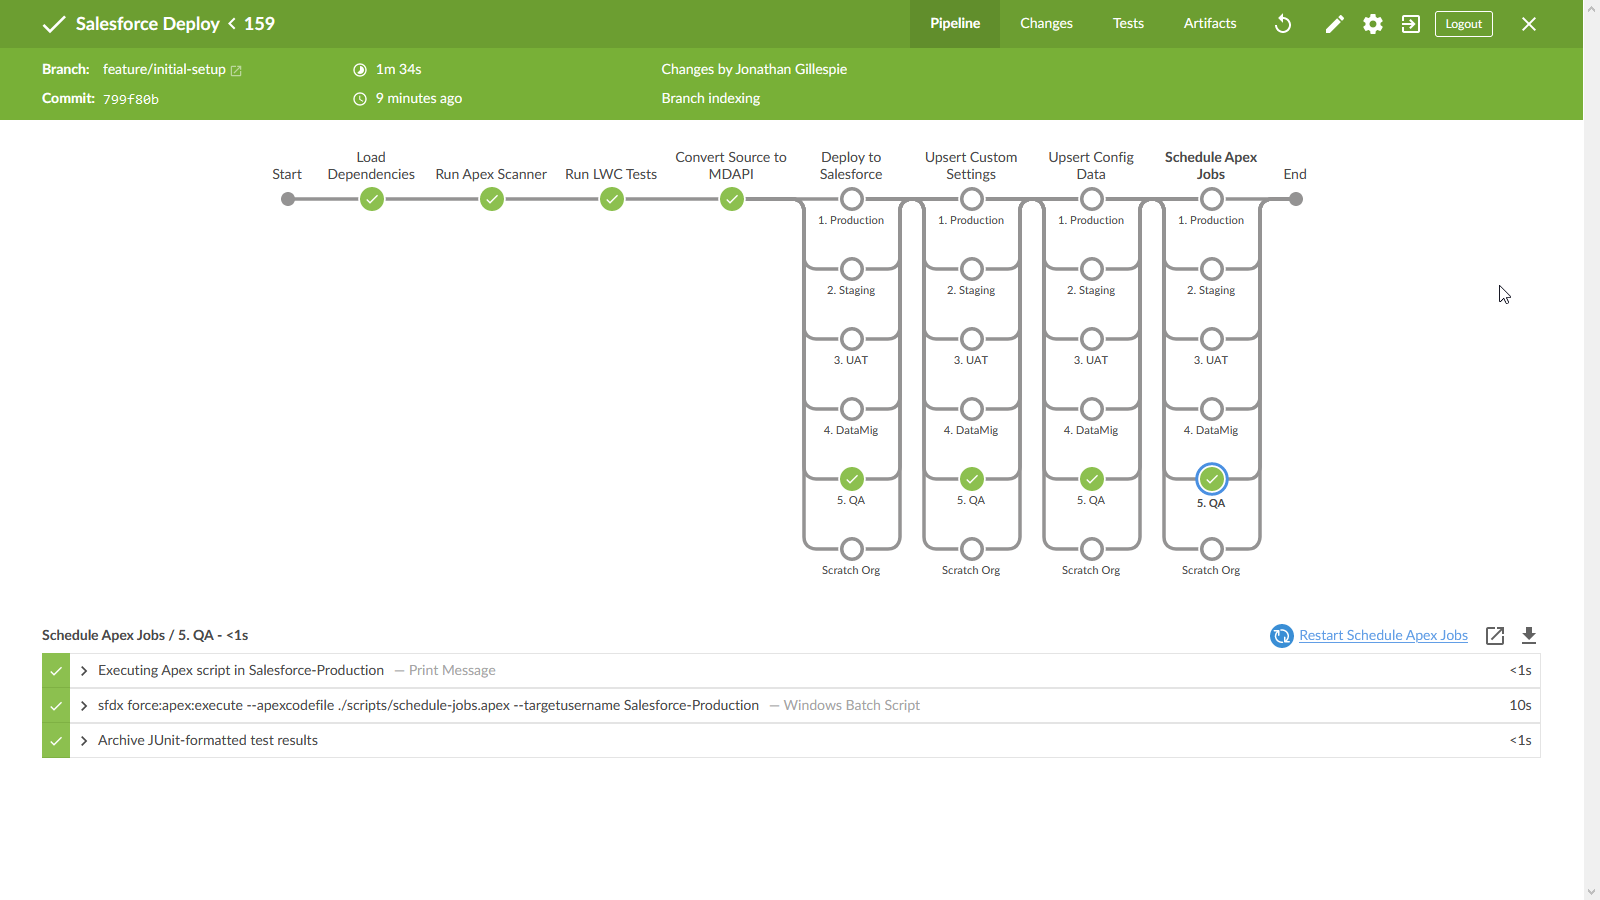
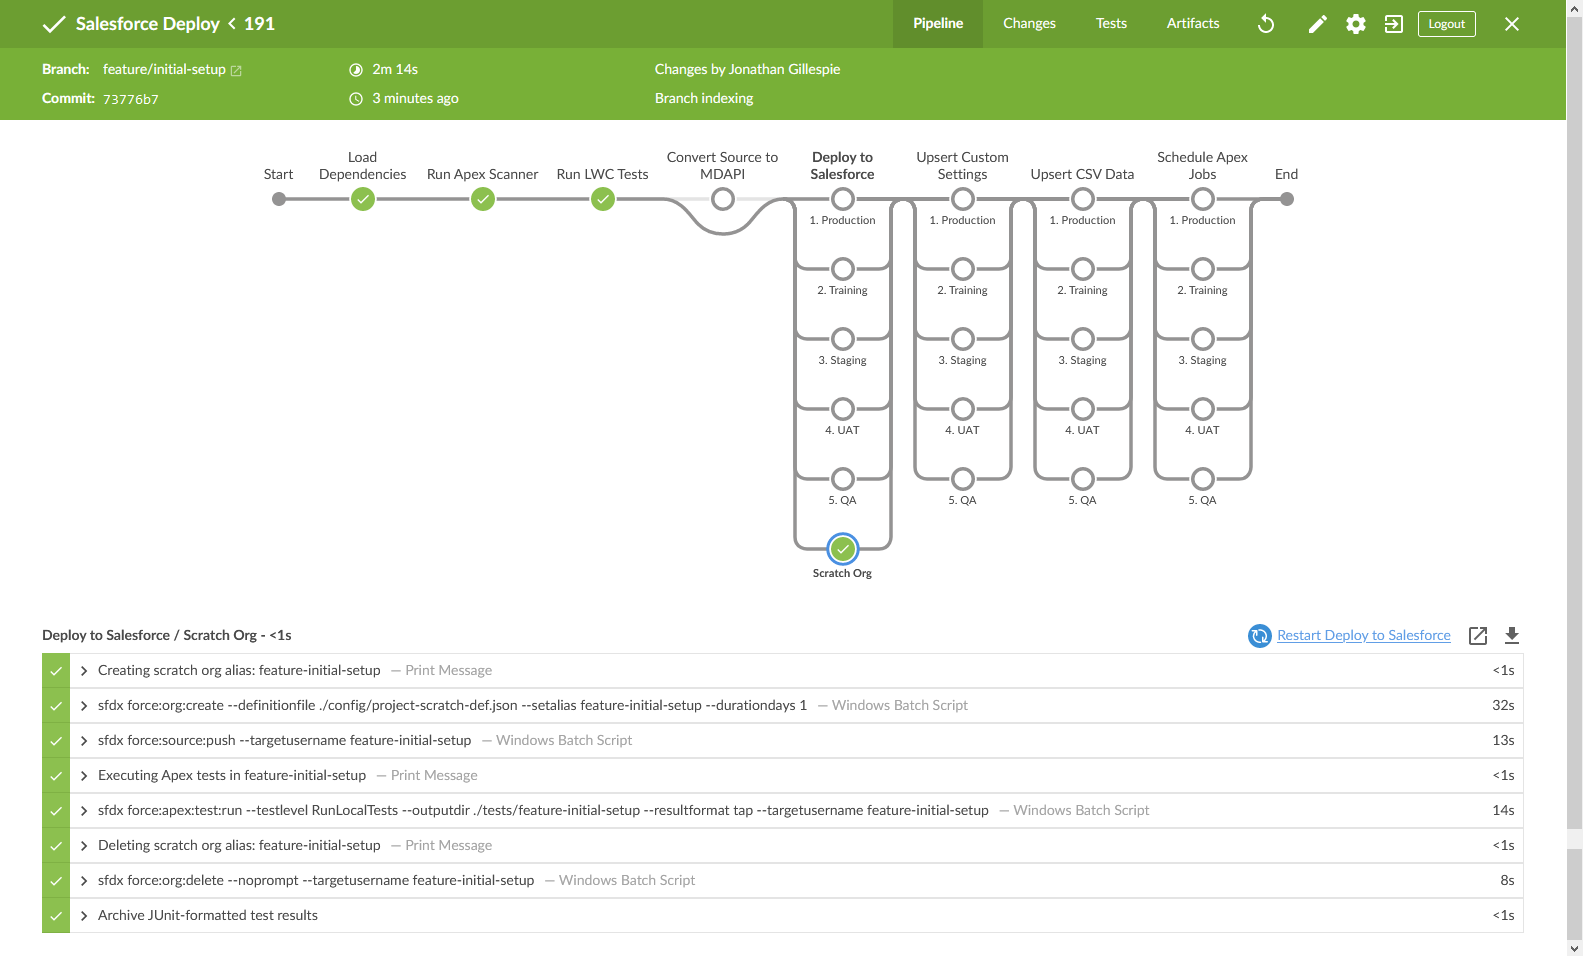
Updates in README

diff --git a/README.md b/README.md
@@ -8,7 +8,20 @@ This repository is an example of how you can deploy to multiple Salesforce envio
 
 ## What It Looks Like
 
+When new commits are pushed to `feature/*` and `bugfix/*` branches, a new scratch org is automatically used to deploy the metadata and run Apex test results
 ![Pipeline: Feature Branch Deployment](./content/pipeline-feature-branch-deployment.png)
+
+When new commits are pushed to the `develop` branch, the metadata is automatically deployed to the `QA` sandbox for internal testing.
+![Pipeline: Develop Branch Deployment](./content/pipeline-develop-branch-deployment.png)
+
+When new commits are pushed to the `uat` branch, the metadata is automatically deployed to the `UAT` sandbox for user acceptance testing.
+![Pipeline: UAT Branch Deployment](./content/pipeline-uat-branch-deployment.png)
+
+When new commits are pushed to `release/*` branches, the metadata is automatically deployed to the `Staging` sandbox for pre-production validation.
+![Pipeline: Release Branch Deployment](./content/pipeline-release-branch-deployment.png)
+
+When new commits are pushed to the `main` branch, the metadata is automatically deployed in parallel to the both `Production` and the `Training` sandbox.
+![Pipeline: Main Branch Deployment](./content/pipeline-main-branch-deployment.png)
 
 ## What It Does
 
